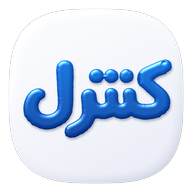
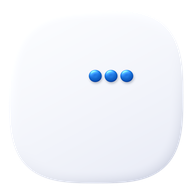
1.8.1.1

diff --git a/web/index.html b/web/index.html
@@ -3640,12 +3640,16 @@ body[data-corners="square"] .ob-lin-fill { border-radius: 2px; }
   opacity: 0; transform: scale(1.04); visibility: hidden; pointer-events: none;
 }
 .pwa-sp-logo-wrap {
-  position: relative; width: 88px; height: 88px; border-radius: 26px;
-  display: flex; align-items: center; justify-content: center;
-  background: rgba(15, 23, 42, .82);
-  border: 1.5px solid color-mix(in srgb, var(--accent, #818cf8) 45%, rgba(255,255,255,.12));
-  box-shadow: 0 20px 50px -10px rgba(0, 0, 0, .65), 0 0 36px -6px color-mix(in srgb, var(--accent, #818cf8) 45%, transparent);
-  animation: pwaLogoFloat 1.8s ease-in-out infinite;
+  position: relative;
+  display: flex;
+  align-items: center;
+  justify-content: center;
+  background: transparent !important;
+  border: none !important;
+  box-shadow: none !important;
+  width: auto !important;
+  height: auto !important;
+  overflow: visible !important;
 }
 .pwa-sp-logo-wrap svg { width: 56px; height: 56px; }
 .pwa-sp-path {
@@ -5373,50 +5377,45 @@ html, body {
 }
 
 
-/* ── Animated "کنترل" Handwriting + 3-Dots Reveal Logo (3s Loop, Pure CSS) ── */
+/* ── Animated "کنترل" Logo (3s Loop, Crisp 2x Supersampled, Blue/White) ── */
 .mc-kontrol-anim {
   position: relative;
-  width: min(320px, 78vw);
-  height: min(187px, 45.6vw);
+  width: min(330px, 80vw);
+  height: min(193px, 46.8vw);
   margin: 0 auto 6px;
   cursor: pointer;
   user-select: none;
-  filter: drop-shadow(0 12px 24px rgba(0, 0, 0, .22));
 }
 .mc-kontrol-anim .k-layer {
   position: absolute;
   inset: 0;
   pointer-events: none;
 }
-.mc-kontrol-anim .k-tint {
-  position: absolute;
-  inset: 0;
-  background: var(--accent, #22d3ee);
-  transition: background-color .28s ease;
-}
-.mc-kontrol-anim .k-word-tint {
-  -webkit-mask: url('logo-word-sil.png') center / 100% 100% no-repeat;
-  mask: url('logo-word-sil.png') center / 100% 100% no-repeat;
-}
-.mc-kontrol-anim .k-dots-tint {
-  -webkit-mask: url('logo-dots-sil-c.png') center / 100% 100% no-repeat;
-  mask: url('logo-dots-sil-c.png') center / 100% 100% no-repeat;
-}
-.mc-kontrol-anim .k-gloss {
+.mc-kontrol-anim .k-img {
   position: absolute;
   inset: 0;
   width: 100%;
   height: 100%;
-  object-fit: fill;
+  object-fit: contain;
   display: block;
 }
+/* Default (Dark Mode): White logo | Light Mode: Original Royal Blue logo */
+.mc-kontrol-anim .k-img-light,
+.mc-brand-dyn .k-img-light { display: none; }
+.mc-kontrol-anim .k-img-dark,
+.mc-brand-dyn .k-img-dark { display: block; }
+body.light-mode .mc-kontrol-anim .k-img-light,
+body.light-mode .mc-brand-dyn .k-img-light { display: block; }
+body.light-mode .mc-kontrol-anim .k-img-dark,
+body.light-mode .mc-brand-dyn .k-img-dark { display: none; }
+
 .mc-kontrol-anim .k-word-wrap {
   will-change: clip-path, opacity;
   animation: kWriteRTL 3s cubic-bezier(.32, .08, .22, 1) infinite;
 }
-.mc-kontrol-anim .k-d1-clip { clip-path: inset(0 23.1% 0 64.9%); }
-.mc-kontrol-anim .k-d2-clip { clip-path: inset(0 34.6% 0 55.0%); }
-.mc-kontrol-anim .k-d3-clip { clip-path: inset(0 44.8% 0 43.3%); }
+.mc-kontrol-anim .k-d1-clip { clip-path: inset(0 24.4% 0 65.2%); }
+.mc-kontrol-anim .k-d2-clip { clip-path: inset(0 34.8% 0 54.7%); }
+.mc-kontrol-anim .k-d3-clip { clip-path: inset(0 45.3% 0 44.3%); }
 .mc-kontrol-anim .k-dot {
   opacity: 0;
   will-change: transform, opacity;
@@ -5424,15 +5423,6 @@ html, body {
 .mc-kontrol-anim .k-dot-1 { animation: kDot1 3s cubic-bezier(.34, 1.56, .64, 1) infinite; }
 .mc-kontrol-anim .k-dot-2 { animation: kDot2 3s cubic-bezier(.34, 1.56, .64, 1) infinite; }
 .mc-kontrol-anim .k-dot-3 { animation: kDot3 3s cubic-bezier(.34, 1.56, .64, 1) infinite; }
-
-.mc-brand-dyn .k-base-light { display: none; }
-.mc-brand-dyn .k-base-dark { display: block; }
-body.light-mode .mc-brand-dyn .k-base-light { display: block; }
-body.light-mode .mc-brand-dyn .k-base-dark { display: none; }
-.mc-brand-dyn .k-fill {
-  fill: var(--accent, #22d3ee);
-  transition: fill .28s ease;
-}
 
 @keyframes kWriteRTL {
   0%       { clip-path: inset(0 0 0 100%); opacity: 1; }
@@ -5457,6 +5447,11 @@ body.light-mode .mc-brand-dyn .k-base-dark { display: none; }
 }
 @keyframes kDot3 {
   0%, 60%  { opacity: 0; transform: translateY(-10px) scale(.85); }
+  68%      { opacity: 1; transform: translateY(0) scale(1.04); }
+  74%      { opacity: 1; transform: translateY(0) scale(1); }
+  86%      { opacity: 1; transform: translateY(0) scale(1); }
+  96%,100% { opacity: 0; transform: translateY(0) scale(.92); }
+}
   68%      { opacity: 1; transform: translateY(0) scale(1.04); }
   74%      { opacity: 1; transform: translateY(0) scale(1); }
   86%      { opacity: 1; transform: translateY(0) scale(1); }
@@ -5487,50 +5482,31 @@ body.light-mode .mc-brand-dyn .k-base-dark { display: none; }
 <!-- PWA Animated Launch Splash Screen -->
 <div id="pwa-splash" aria-hidden="true">
   <div class="pwa-sp-logo-wrap">
-    <div class="mc-kontrol-anim" style="width:185px;height:108px;margin:0;" onclick="replayKontrolLogo(this)" aria-label="کنترل">
+    <div class="mc-kontrol-anim" style="width:min(340px,82vw);height:min(199px,48vw);margin:0;" onclick="replayKontrolLogo(this)" aria-label="کنترل">
         <div class="k-layer k-word-wrap">
-          <div class="k-tint k-word-tint"></div>
-          <img class="k-gloss" src="logo-word-gloss.png" alt="کنترل">
+          <img class="k-img k-img-light" src="logo-word-blue.png" alt="کنترل">
+          <img class="k-img k-img-dark" src="logo-word-white.png" alt="کنترل">
         </div>
         <div class="k-layer k-d1-clip">
           <div class="k-layer k-dot k-dot-1">
-            <div class="k-tint k-dots-tint"></div>
-            <img class="k-gloss" src="logo-dots-gloss-c.png" alt="">
+            <img class="k-img k-img-light" src="logo-dots-blue.png" alt="">
+            <img class="k-img k-img-dark" src="logo-dots-white.png" alt="">
           </div>
         </div>
         <div class="k-layer k-d2-clip">
           <div class="k-layer k-dot k-dot-2">
-            <div class="k-tint k-dots-tint"></div>
-            <img class="k-gloss" src="logo-dots-gloss-c.png" alt="">
+            <img class="k-img k-img-light" src="logo-dots-blue.png" alt="">
+            <img class="k-img k-img-dark" src="logo-dots-white.png" alt="">
           </div>
         </div>
         <div class="k-layer k-d3-clip">
           <div class="k-layer k-dot k-dot-3">
-            <div class="k-tint k-dots-tint"></div>
-            <img class="k-gloss" src="logo-dots-gloss-c.png" alt="">
+            <img class="k-img k-img-light" src="logo-dots-blue.png" alt="">
+            <img class="k-img k-img-dark" src="logo-dots-white.png" alt="">
           </div>
         </div>
       </div>
   </div>
-  <div class="pwa-sp-title" aria-label="MControl"><svg class="mc-wordmark mc-wordmark-splash" viewBox="0 0 340 76" fill="none" xmlns="http://www.w3.org/2000/svg">
-        <!-- M (bold rounded geometric) -->
-        <path class="mc-wm-m" d="M12 64 V18 C12 16 14 15 16 17 L34 52 C35 54 37 54 38 52 L56 17 C58 15 60 16 60 18 V64"/>
-        <!-- C -->
-        <path class="mc-wm-c" d="M114 25 A23 23 0 1 0 114 55"/>
-        <!-- o (stenciled split o: left arc & right arc with vertical top/bottom gaps) -->
-        <path class="mc-wm-c" d="M137 31 A16 16 0 0 0 137 61"/>
-        <path class="mc-wm-c" d="M145 31 A16 16 0 0 1 145 61"/>
-        <!-- n -->
-        <path class="mc-wm-c" d="M172 62 V32 M172 44 C172 34 179 30 187 30 C195 30 201 35 201 44 V62"/>
-        <!-- t -->
-        <path class="mc-wm-c" d="M222 18 V54 C222 60 226 63 232 63 H235 M213 33 H234"/>
-        <!-- r -->
-        <path class="mc-wm-c" d="M250 62 V32 M250 43 C250 35 256 30 264 30 H267"/>
-        <!-- o (full rounded) -->
-        <circle class="mc-wm-c" cx="292" cy="46" r="16"/>
-        <!-- l -->
-        <path class="mc-wm-c" d="M324 14 V62"/></svg></div>
-  <div class="pwa-sp-bar"><i></i></div>
 </div>
 <!-- PWA Pull-to-Refresh Spinner -->
 <div id="pwa-ptr" aria-hidden="true"><svg width="20" height="20" viewBox="0 0 24 24" fill="none" stroke="currentColor" stroke-width="2.4" stroke-linecap="round" stroke-linejoin="round"><path d="M21 12a9 9 0 1 1-6.219-8.56"/></svg></div>
@@ -5915,15 +5891,29 @@ body.light-mode .mc-brand-dyn .k-base-dark { display: none; }
     <div class="login-brand-hero">
       <div class="mc-kontrol-anim" onclick="replayKontrolLogo(this)" aria-label="کنترل">
         <div class="k-layer k-word-wrap">
-          <div class="k-tint k-word-tint"></div>
-          <img class="k-gloss" src="logo-word-gloss.png" alt="کنترل">
+          <img class="k-img k-img-light" src="logo-word-blue.png" alt="کنترل">
+          <img class="k-img k-img-dark" src="logo-word-white.png" alt="کنترل">
         </div>
         <div class="k-layer k-d1-clip">
           <div class="k-layer k-dot k-dot-1">
-            <div class="k-tint k-dots-tint"></div>
-            <img class="k-gloss" src="logo-dots-gloss-c.png" alt="">
+            <img class="k-img k-img-light" src="logo-dots-blue.png" alt="">
+            <img class="k-img k-img-dark" src="logo-dots-white.png" alt="">
           </div>
         </div>
+        <div class="k-layer k-d2-clip">
+          <div class="k-layer k-dot k-dot-2">
+            <img class="k-img k-img-light" src="logo-dots-blue.png" alt="">
+            <img class="k-img k-img-dark" src="logo-dots-white.png" alt="">
+          </div>
+        </div>
+        <div class="k-layer k-d3-clip">
+          <div class="k-layer k-dot k-dot-3">
+            <img class="k-img k-img-light" src="logo-dots-blue.png" alt="">
+            <img class="k-img k-img-dark" src="logo-dots-white.png" alt="">
+          </div>
+        </div>
+      </div>
+    </div>
         <div class="k-layer k-d2-clip">
           <div class="k-layer k-dot k-dot-2">
             <div class="k-tint k-dots-tint"></div>
@@ -6004,18 +5994,12 @@ body.light-mode .mc-brand-dyn .k-base-dark { display: none; }
 
   <div id="chrome">
     <div class="brand">
-      <svg class="mc-brand-svg mc-brand-dyn" viewBox="0 0 1024 1024" preserveAspectRatio="xMidYMid meet" xmlns="http://www.w3.org/2000/svg">
-        <defs>
-          <mask id="kn-tmask"><image href="logo-text-mask.png" x="0" y="0" width="1024" height="1024"/></mask>
-          <mask id="kn-dmask"><image href="logo-dots-mask.png" x="0" y="0" width="1024" height="1024"/></mask>
-        </defs>
-        <image class="k-base-dark" href="logo-base-dark.png" x="0" y="0" width="1024" height="1024"/>
-        <image class="k-base-light" href="logo-base.png" x="0" y="0" width="1024" height="1024"/>
-        <rect class="k-fill" x="0" y="0" width="1024" height="1024" mask="url(#kn-tmask)"/>
-        <image href="logo-text-gloss.png" x="0" y="0" width="1024" height="1024"/>
-        <rect class="k-fill" x="0" y="0" width="1024" height="1024" mask="url(#kn-dmask)"/>
-        <image href="logo-dots-gloss.png" x="0" y="0" width="1024" height="1024"/>
-      </svg>
+      <span class="mc-brand-svg mc-brand-dyn" style="position:relative;display:inline-flex;align-items:center;justify-content:center;width:44px;height:28px;">
+        <img class="k-img-light" src="logo-word-blue.png" alt="کنترل" style="position:absolute;inset:0;width:100%;height:100%;object-fit:contain;">
+        <img class="k-img-light" src="logo-dots-blue.png" alt="" style="position:absolute;inset:0;width:100%;height:100%;object-fit:contain;">
+        <img class="k-img-dark" src="logo-word-white.png" alt="کنترل" style="position:absolute;inset:0;width:100%;height:100%;object-fit:contain;">
+        <img class="k-img-dark" src="logo-dots-white.png" alt="" style="position:absolute;inset:0;width:100%;height:100%;object-fit:contain;">
+      </span>
       <span class="bt" aria-label="MControl"><svg class="mc-wordmark mc-wordmark-nav" viewBox="0 0 340 76" fill="none" xmlns="http://www.w3.org/2000/svg">
         <!-- M (bold rounded geometric) -->
         <path class="mc-wm-m" d="M12 64 V18 C12 16 14 15 16 17 L34 52 C35 54 37 54 38 52 L56 17 C58 15 60 16 60 18 V64"/>

diff --git a/app/src/main/java/com/mdesign/mcontrol/ui/screens/LoginScreen.kt b/app/src/main/java/com/mdesign/mcontrol/ui/screens/LoginScreen.kt
@@ -103,7 +103,9 @@ private fun buildPanelBaseUrl(addressInput: String, portInput: String, webPathIn
 
 @Composable
 private fun KontrolAnimatedLogo(modifier: Modifier = Modifier) {
-    val accentTint = ColorFilter.tint(MaterialTheme.colorScheme.primary)
+    val isDark = MaterialTheme.colorScheme.background.luminance() < 0.5f
+    val wordRes = if (isDark) R.drawable.logo_word_white else R.drawable.logo_word_blue
+    val dotsRes = if (isDark) R.drawable.logo_dots_white else R.drawable.logo_dots_blue
     val transition = rememberInfiniteTransition(label = "kontrol_3s")
     val t by transition.animateFloat(
         initialValue = 0f,
@@ -131,62 +133,42 @@ private fun KontrolAnimatedLogo(modifier: Modifier = Modifier) {
     }
 
     Box(modifier = modifier, contentAlignment = Alignment.Center) {
-        // 1. "کنترل" Handwriting Right-to-Left Reveal (No Background, Large, Theme Primary)
-        Box(
+        // 1. "کنترل" Handwriting Right-to-Left Reveal (Original Blue in Light / White in Dark)
+        Image(
+            painter = painterResource(id = wordRes),
+            contentDescription = "کنترل",
             modifier = Modifier
                 .fillMaxSize()
                 .alpha(textAlpha)
                 .drawWithContent {
-                    val left = size.width * (0.90f - 0.80f * writeProg)
+                    val left = size.width * (1f - writeProg)
                     clipRect(left = left, top = 0f, right = size.width, bottom = size.height) {
                         this@drawWithContent.drawContent()
                     }
                 }
-        ) {
-            Image(
-                painter = painterResource(id = R.drawable.logo_text_sil),
-                contentDescription = "کنترل",
-                colorFilter = accentTint,
-                modifier = Modifier.fillMaxSize()
-            )
-            Image(
-                painter = painterResource(id = R.drawable.logo_text_gloss),
-                contentDescription = null,
-                modifier = Modifier.fillMaxSize()
-            )
-        }
-        // 2. Three Dots popping in Right-to-Left
+        )
+        // 2. Three cleanly separated Dots popping in Right-to-Left
         val d1 = dotAlpha(1.44f)
         val d2 = dotAlpha(1.62f)
         val d3 = dotAlpha(1.80f)
         listOf(
-            Triple(0.617f, 0.711f, d1),
-            Triple(0.539f, 0.621f, d2),
-            Triple(0.447f, 0.541f, d3)
+            Triple(0.652f, 0.756f, d1),
+            Triple(0.547f, 0.652f, d2),
+            Triple(0.443f, 0.547f, d3)
         ).forEach { (lx, rx, a) ->
             if (a > 0.01f) {
-                Box(
+                Image(
+                    painter = painterResource(id = dotsRes),
+                    contentDescription = null,
                     modifier = Modifier
                         .fillMaxSize()
                         .alpha(a)
                         .drawWithContent {
-                            clipRect(left = size.width * lx, top = size.height * 0.33f, right = size.width * rx, bottom = size.height * 0.46f) {
+                            clipRect(left = size.width * lx, top = 0f, right = size.width * rx, bottom = size.height) {
                                 this@drawWithContent.drawContent()
                             }
                         }
-                ) {
-                    Image(
-                        painter = painterResource(id = R.drawable.logo_dots_sil),
-                        contentDescription = null,
-                        colorFilter = accentTint,
-                        modifier = Modifier.fillMaxSize()
-                    )
-                    Image(
-                        painter = painterResource(id = R.drawable.logo_dots_gloss),
-                        contentDescription = null,
-                        modifier = Modifier.fillMaxSize()
-                    )
-                }
+                )
             }
         }
     }
@@ -224,7 +206,7 @@ fun LoginScreen(
         verticalArrangement = Arrangement.Center
     ) {
         KontrolAnimatedLogo(
-            modifier = Modifier.size(240.dp)
+            modifier = Modifier.width(260.dp).height(152.dp)
         )
 
         Spacer(Modifier.height(18.dp))

diff --git a/web/sw.js b/web/sw.js
@@ -1,5 +1,5 @@
 /* MControl MDesign PWA Service Worker v2 */
-const CACHE_NAME = 'mcontrol-pwa-v23';
+const CACHE_NAME = 'mcontrol-pwa-v24';
 const PRECACHE_URLS = [
   './',
   './manifest.json',
@@ -19,7 +19,11 @@ const PRECACHE_URLS = [
   './logo-word-sil.png',
   './logo-word-gloss.png',
   './logo-dots-sil-c.png',
-  './logo-dots-gloss-c.png'
+  './logo-dots-gloss-c.png',
+  './logo-word-blue.png',
+  './logo-dots-blue.png',
+  './logo-word-white.png',
+  './logo-dots-white.png'
 ];
 
 const OFFLINE_HTML = `<!DOCTYPE html>
